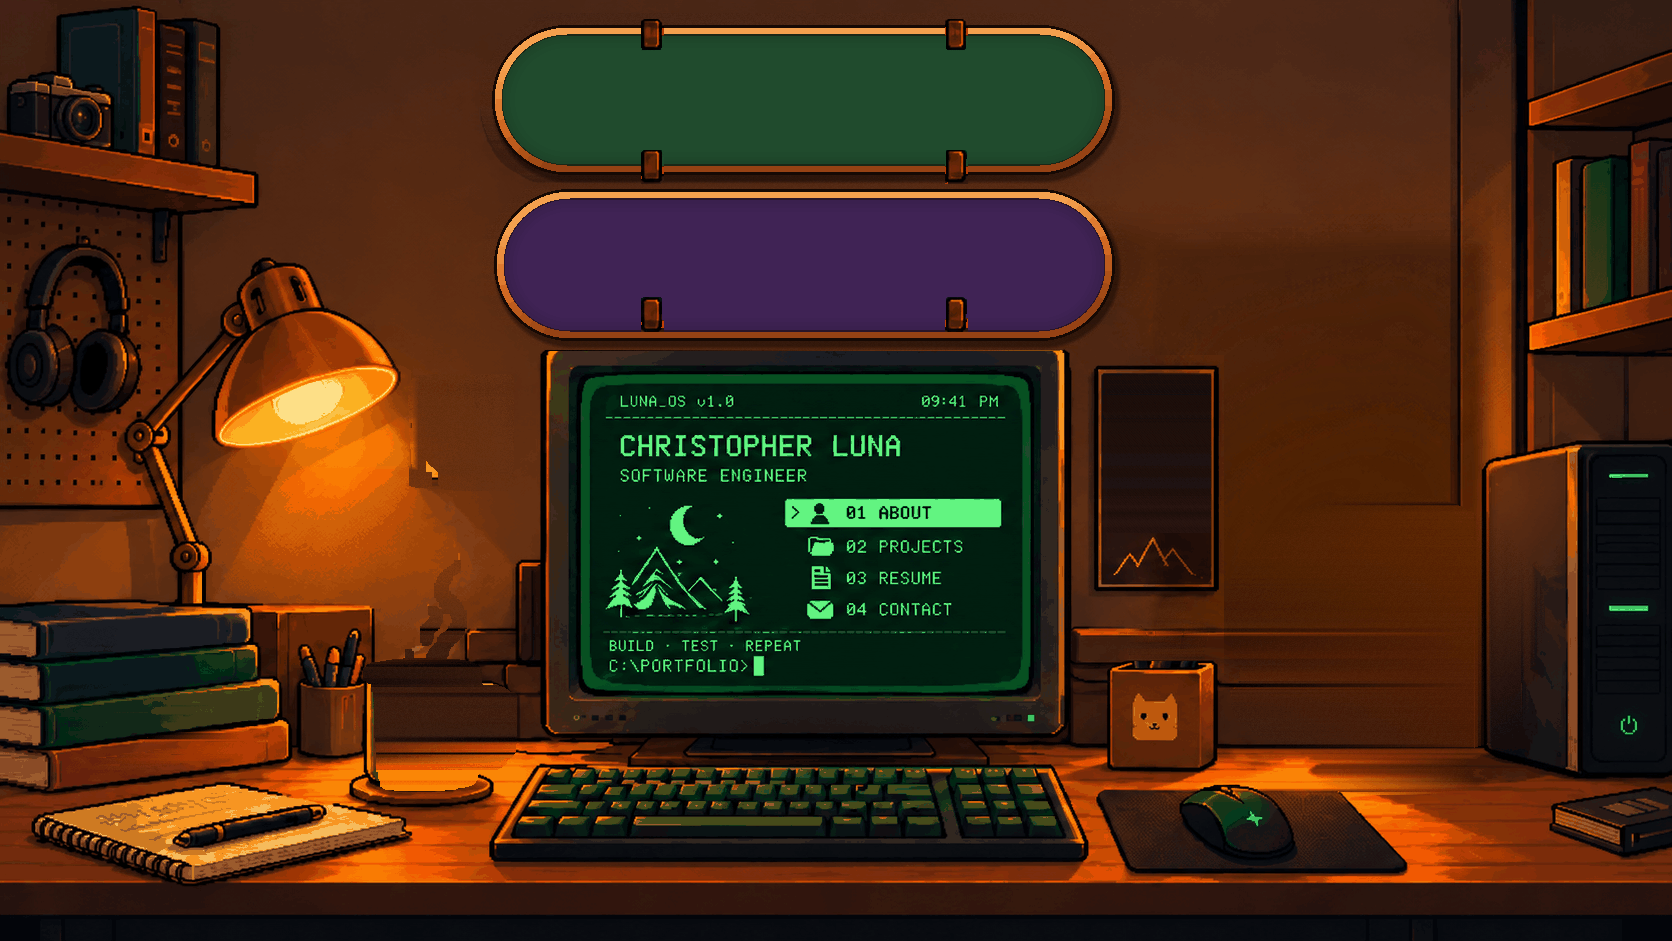
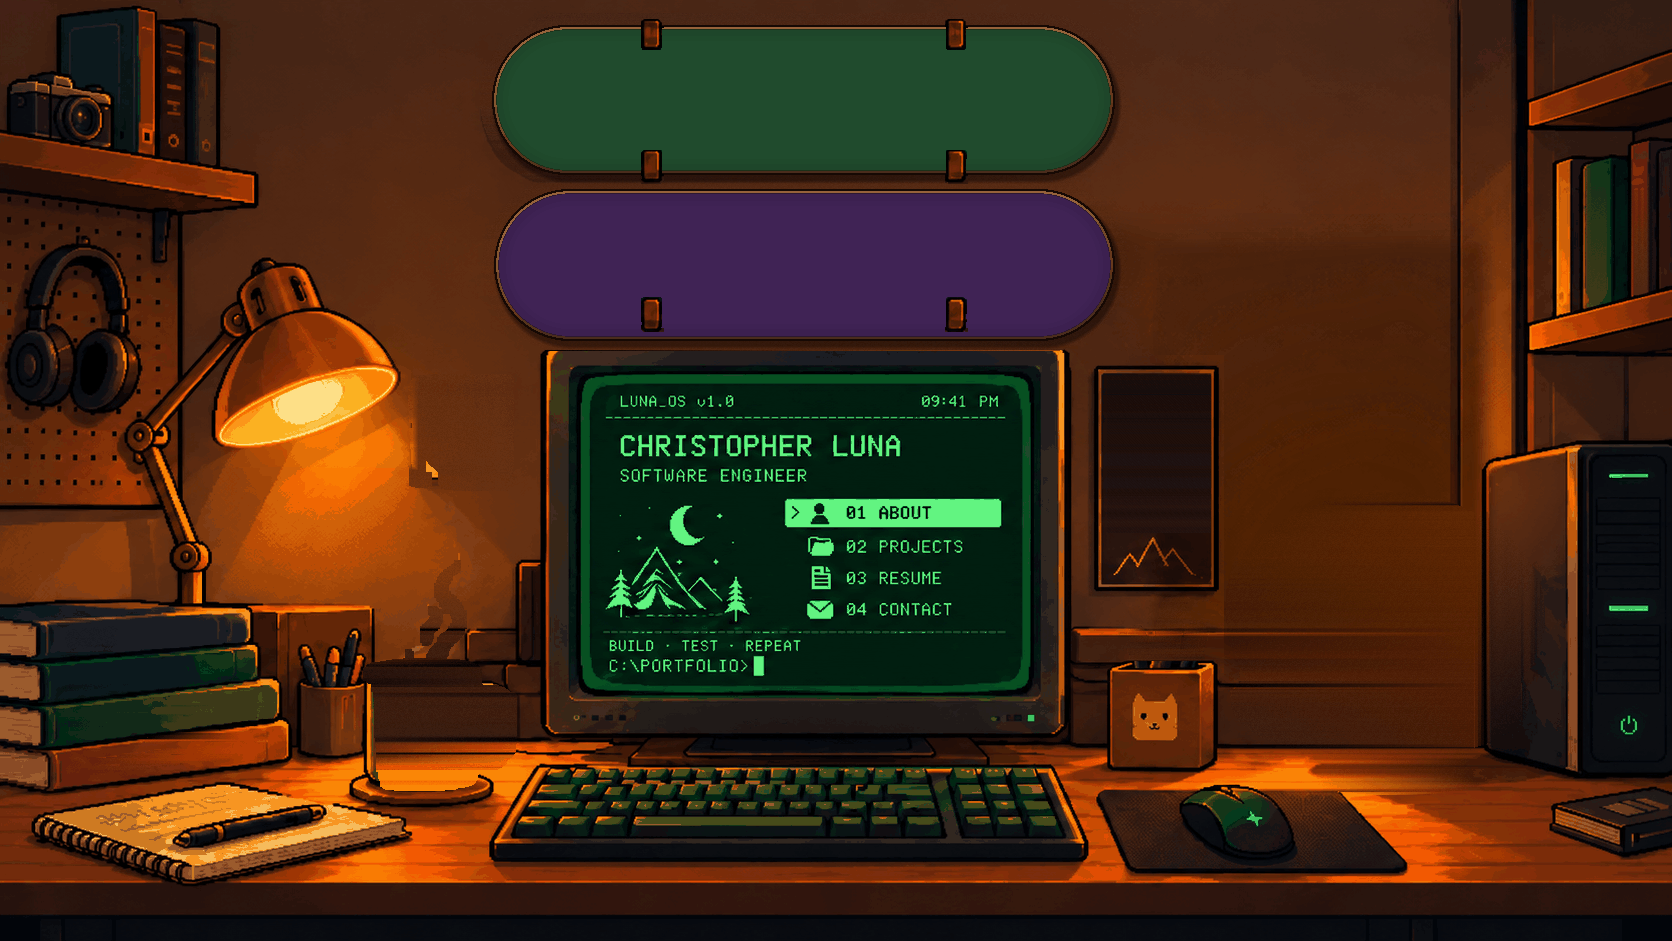
Thin wood deck edges, a note pile that stays, a gentler mug bump
- Deck edges are a thin, muted wood line under a dark outline instead of the
  wide orange band; the brackets come back without bits of the old rim.
- Sticky notes can be peeled back to back with no wait; each falls on its
  own, lands behind the mug at its own angle and stays until reload.
- The mug only bumps back a few pixels, upright; its drops and the puddle
  where it stood stay until reload.

diff --git a/components/cinema/CinemaScene.tsx b/components/cinema/CinemaScene.tsx
@@ -11,7 +11,7 @@ import {
 } from "react";
 import manifestJson from "../../public/cinema/manifest.json";
 import LofiOS, { type LofiPopup } from "./LofiOS";
-import { Spring, clamp01, easeOutCubic } from "./physics";
+import { Spring, easeOutCubic } from "./physics";
 import { Spill } from "./spill";
 import "./cinema.css";
 
@@ -70,9 +70,9 @@ const HINT_DELAY_MS = 2200;
 
 /** The mug's tap: it slides back across the desk, upright, slopping a little coffee that stays
  *  on the desk where it stood. It stays pushed back until the page is reloaded. */
-const PUSH_S = 0.7;
-const PUSH_BACK = 30; // art px up the desk (away from you)
-const PUSH_SHRINK = 0.09; // further away, a touch smaller
+const PUSH_S = 0.35;
+const PUSH_BACK = 5; // art px up the desk (away from you): a small bump back
+const PUSH_SHRINK = 0.015; // further away, a hair smaller
 const LEAK_DROPS = 10;
 const LEAK_POOL = [52, 9]; // art px: the puddle's half-width and half-depth where it stood
 
@@ -82,9 +82,8 @@ const NOTE_GRAVITY = 900; // art px / s²
 const NOTE_DRAG = 5.2; // 1/s, so it falls at about 170 art px/s
 const NOTE_SWAY = 34; // art px
 const NOTE_SWAY_W = 5.2; // rad/s
-const NOTE_LAND_Y = 412; // art px below the wall spot: the desk behind the mug
-const NOTE_REST_S = 1.4;
-const NOTE_FADE_S = 0.6;
+const NOTE_LAND_Y = 362; // art px below the wall spot: lying on the desk behind the mug
+const NOTE_SCATTER = [14, 10, 22]; // a landed note's spread: ± art px across, ± art px deep, ± degrees
 
 /** What each sticky note says, in the order they come off the wall: a real to-do list. */
 const NOTE_TEXTS = [
@@ -170,6 +169,22 @@ interface Cam {
 }
 const CAM_REST: Cam = { dy: 0, zoom: 1 };
 
+interface NoteFall {
+  id: number;
+  phase: "peel" | "fall" | "land" | "rest";
+  t: number;
+  x: number;
+  y: number;
+  vy: number;
+  rot: number;
+  tilt: number;
+  side: number;
+  /** Where it ends up: a little off the others, so they pile up scattered. */
+  landY: number;
+  landRot: number;
+  landDx: number;
+}
+
 /** Everything that moves when a prop is tapped. Lives outside React state: the loop writes styles directly. */
 interface World {
   mug: {
@@ -180,17 +195,8 @@ interface World {
     /** A little shiver when it's knocked again where it stands. */
     nudge: Spring;
   };
-  note: {
-    phase: "idle" | "peel" | "fall" | "land";
-    t: number;
-    x: number;
-    y: number;
-    vy: number;
-    rot: number;
-    tilt: number;
-    side: number;
-    opacity: number;
-  };
+  /** Every note peeled off the wall, in the order they came off: falling, landing or lying on the desk. */
+  notes: NoteFall[];
   pens: Spring[];
   /** One per leaf, back to front: each flutters on its own stem. */
   leaves: Spring[];
@@ -201,7 +207,7 @@ interface World {
 
 const createWorld = (): World => ({
   mug: { phase: "home", t: 0, k: 0, nudge: new Spring(420, 9) },
-  note: { phase: "idle", t: 0, x: 0, y: 0, vy: 0, rot: 0, tilt: 0, side: 1, opacity: 1 },
+  notes: [],
   pens: [new Spring(170, 4.2), new Spring(150, 3.6), new Spring(190, 4.6)],
   // a spread of stiffnesses, so the leaves never flutter in step
   leaves: art.leaves.files.map((_, i) => new Spring(48 + ((i * 37) % 41), 2.1 + (i % 3) * 0.35)),
@@ -335,11 +341,11 @@ function NoteFace({ index }: { index: number }) {
 
 /**
  * v2 — the lo-fi pixel desk. You arrive standing back, the whole painted room
- * filling the window. Clicking the monitor sits you down: two steps up to the desk,
- * then down into the chair, and the LUNA_OS on the glass wakes up to your keys. Standing, the
- * desk is alive: push the mug and it slides back, upright, leaving a little spilt coffee behind, peel the
- * sticky note and it drifts down to the desk with the next one waiting behind it,
- * tap the pencil cup and the pens rattle, click the lamp to switch it off and on,
+ * filling the window. Clicking the monitor sits you down in one smooth move toward the screen,
+ * and the LUNA_OS on the glass wakes up to your keys. Standing, the desk is alive: push the mug
+ * and it bumps back a little, upright, leaving spilt coffee behind; peel the sticky notes, as fast
+ * as you like, and they drift down and pile up behind the mug; tap the pencil cup and the pens
+ * rattle; click the lamp to switch it off and on;
  * brush the plant and its leaves rustle while an ant walks out. Seated, ESC, [ STAND UP ] or a click
  * anywhere outside the screen stands you back up.
  */
@@ -353,7 +359,8 @@ export default function CinemaScene() {
   const [pendingPopup, setPendingPopup] = useState<LofiPopup>(null);
   const [antKey, setAntKey] = useState(0);
   const [noteIndex, setNoteIndex] = useState(0);
-  const [fallingNote, setFallingNote] = useState<number | null>(null);
+  /** Every note peeled off so far (which note it was), in order: they stay on the desk until reload. */
+  const [fallen, setFallen] = useState<number[]>([]);
   const [lampOn, setLampOn] = useState(true);
   const [lampSwitches, setLampSwitches] = useState(0);
   const [visits, setVisits] = useState(0); // each stand-up hands back a fresh screen at the menu
@@ -362,7 +369,7 @@ export default function CinemaScene() {
   const fallbackRef = useRef(0);
   const worldRef = useRef<World | null>(null);
   const elsRef = useRef<Partial<Record<PropKey, HTMLElement | null>>>({});
-  const fallerRef = useRef<HTMLDivElement | null>(null);
+  const noteRefs = useRef(new Map<number, HTMLDivElement>());
   const penRefs = useRef<(HTMLDivElement | null)[]>([]);
   const leafRefs = useRef<(HTMLDivElement | null)[]>([]);
   const canvasRef = useRef<HTMLCanvasElement>(null);
@@ -499,9 +506,9 @@ export default function CinemaScene() {
         if (ctx) w.spill.draw(ctx);
       }
 
-      // the falling sticky note
-      const n = w.note;
-      if (n.phase !== "idle") {
+      // the peeled sticky notes: each falls on its own and stays where it lands
+      for (const n of w.notes) {
+        if (n.phase === "rest") continue;
         n.t += dt;
         if (n.phase === "peel") {
           // the bottom lets go first and curls off the wall, one corner ahead of the other
@@ -523,26 +530,22 @@ export default function CinemaScene() {
           n.x = NOTE_SWAY * grow * Math.sin(ph) * n.side;
           n.rot = 5 * n.side * (1 - grow) + 16 * grow * Math.cos(ph) * n.side;
           n.tilt = 30 + 24 * grow * Math.sin(2 * ph + 0.6);
-          if (n.y >= NOTE_LAND_Y) {
-            n.y = NOTE_LAND_Y;
+          if (n.y >= n.landY) {
+            n.y = n.landY;
             n.phase = "land";
             n.t = 0;
           }
         } else {
-          // flat on the desk: it settles, rests a moment, then goes
-          const k = easeOutCubic(n.t / 0.28);
+          // flat on the desk: it slides the last bit and settles at its own angle, and stays
+          const k = easeOutCubic(n.t / 0.32);
           n.tilt = lerp(n.tilt, 78, k);
-          n.rot *= 1 - 0.12 * Math.min(1, dt * 60);
-          n.opacity = 1 - clamp01((n.t - NOTE_REST_S) / NOTE_FADE_S);
-          if (n.t >= NOTE_REST_S + NOTE_FADE_S) {
-            n.phase = "idle";
-            setFallingNote(null);
-          }
+          n.rot = lerp(n.rot, n.landRot, k);
+          n.x = lerp(n.x, n.landDx, k * 0.25);
+          if (n.t >= 0.32) n.phase = "rest";
         }
-        const f = fallerRef.current;
+        const f = noteRefs.current.get(n.id);
         if (f) {
           f.style.transform = `translate(${(n.x * s).toFixed(1)}px, ${(n.y * s).toFixed(1)}px) perspective(${(600 * s).toFixed(0)}px) rotateZ(${n.rot.toFixed(2)}deg) rotateX(${n.tilt.toFixed(2)}deg)`;
-          f.style.opacity = n.opacity.toFixed(3);
         }
       }
 
@@ -562,7 +565,7 @@ export default function CinemaScene() {
 
       const idle =
         m.phase !== "pushing" &&
-        n.phase === "idle" &&
+        w.notes.every((n) => n.phase === "rest") &&
         !(w.spill && w.spill.moving) &&
         springs.every((sp) => sp.idle);
       if (idle) {
@@ -639,10 +642,10 @@ export default function CinemaScene() {
     (e: React.MouseEvent) => {
       if (pose !== "standing") return;
       e.stopPropagation();
-      if (fallingNote !== null) return;
-      const next = noteIndex + 1;
       const w = worldOf(worldRef);
-      Object.assign(w.note, {
+      const r = () => Math.random() * 2 - 1;
+      w.notes.push({
+        id: w.notes.length,
         phase: "peel",
         t: 0,
         x: 0,
@@ -651,13 +654,15 @@ export default function CinemaScene() {
         rot: 0,
         tilt: 0,
         side: Math.random() < 0.5 ? -1 : 1,
-        opacity: 1,
+        landY: NOTE_LAND_Y + r() * NOTE_SCATTER[1],
+        landRot: r() * NOTE_SCATTER[2],
+        landDx: r() * NOTE_SCATTER[0],
       });
-      setFallingNote(noteIndex);
-      setNoteIndex(next);
+      setFallen((f) => [...f, noteIndex]);
+      setNoteIndex(noteIndex + 1);
       ensureRunning();
     },
-    [pose, fallingNote, noteIndex, ensureRunning],
+    [pose, noteIndex, ensureRunning],
   );
 
   const rattlePens = useCallback(
@@ -799,16 +804,21 @@ export default function CinemaScene() {
               >
                 <NoteFace index={noteIndex} />
               </button>
-              {fallingNote !== null && (
+              {/* the notes peeled so far: falling, or lying where they landed behind the mug */}
+              {fallen.map((index, id) => (
                 <div
-                  ref={fallerRef}
+                  key={id}
+                  ref={(node) => {
+                    if (node) noteRefs.current.set(id, node);
+                    else noteRefs.current.delete(id);
+                  }}
                   className="cinema__sprite cinema__sprite--note cinema__note-falling"
                   style={{ ...pctBox(note.boxPct), transformOrigin: "50% 3%" }}
                   aria-hidden="true"
                 >
-                  <NoteFace index={fallingNote} />
+                  <NoteFace index={index} />
                 </div>
-              )}
+              ))}
             </>
           )}
 

diff --git a/scripts/cinema-blend.js b/scripts/cinema-blend.js
@@ -174,7 +174,7 @@ const savePng = (buf, w, h, ch, file) => sharp(buf, { raw: { width: w, height: h
   const block = (boxes) => { const m = new Uint8Array(W * H); for (const [x0, y0, x1, y1] of boxes) for (let y = y0; y <= y1; y++) for (let x = x0; x <= x1; x++) m[y * W + x] = 1; return m; };
   for (const [x0, y0, x1, y1] of [[596, 82, 998, 130], [634, 217, 994, 253]]) fill(img, block([[x0, y0, x1, y1]]), [x0, y0 - 4, x1, y1 + 4], 'col', 19);
   // the decks' painted rims wander (ragged edges, a gap at the nose, drips by the brackets), so each
-  // deck is redrawn from its outline's box as a clean stadium: dark outline, a maple edge lit along
+  // deck is redrawn from its outline's box as a clean stadium: dark outline, a thin wood line lit along
   // the top and shaded under, the flat face, a soft shadow on the wall; the brackets go back on top
   {
     const DECKS = [{ box: [492, 25, 1114, 175] }, { box: [494, 189, 1114, 341] }];
@@ -208,21 +208,21 @@ const savePng = (buf, w, h, ch, file) => sharp(buf, { raw: { width: w, height: h
       for (let c = 0; c < 3; c++) img[i + c] = Math.round(img[i + c] * k);
     }
     // 3. the decks
-    const RIM_LIT = [244, 160, 78], RIM = [214, 108, 36], RIM_SHADE = [150, 66, 20], LINE = [22, 10, 5];
+    // a thin, muted wood edge: a brown line two pixels wide, not a bright band
+    const RIM_LIT = [150, 98, 58], RIM = [112, 70, 40], RIM_SHADE = [74, 44, 26], LINE = [22, 10, 5];
     const mix = (a, b, t) => a.map((v, c) => v + (b[c] - v) * t);
     for (const d of DECKS) {
       const [x0, y0, x1, y1] = d.box;
       for (let y = y0 - 1; y <= y1 + 1; y++) for (let x = x0 - 1; x <= x1 + 1; x++) {
         const t = -d.dist(x, y); if (t < 0) continue;
         let col;
-        if (t < 2.6) col = LINE;
-        else if (t < 9.5) {
+        if (t < 2.2) col = LINE;
+        else if (t < 4.3) {
           // the edge faces outward: lit where it faces up-left, shaded where it faces down-right
           const [nx, ny] = d.normal(x, y), lit = -(nx * 0.35 + ny * 0.94);
           col = lit > 0 ? mix(RIM, RIM_LIT, Math.min(1, lit * 1.3)) : mix(RIM, RIM_SHADE, Math.min(1, -lit * 1.2));
-          if (t < 3.6) col = mix(col, RIM_LIT, lit > 0.3 ? 0.35 : 0);
-        } else if (t < 10.6) col = mix(d.face, LINE, 0.55);
-        else col = mix(d.face, [0, 0, 0], 0.1 * Math.max(0, 1 - (t - 10.6) / 14));
+        } else if (t < 5.1) col = mix(d.face, LINE, 0.45);
+        else col = mix(d.face, [0, 0, 0], 0.08 * Math.max(0, 1 - (t - 5.1) / 14));
         const i = (y * W + x) * 3;
         for (let c = 0; c < 3; c++) img[i + c] = Math.round(col[c]);
       }
@@ -232,6 +232,8 @@ const savePng = (buf, w, h, ch, file) => sharp(buf, { raw: { width: w, height: h
       const inner = enclosed(src, [a - 2, b - 2, c + 2, e + 2], 30), keep = dilate(inner, 2);
       for (let y = b - 2; y <= e + 2; y++) for (let x = a - 2; x <= c + 2; x++) {
         const i = y * W + x; if (!keep[i] || !inBracket(x, y)) continue;
+        // round the edge, only the bracket's own dark outline: not the old rim beside it
+        if (!inner[i] && lum(src, i) > 40) continue;
         for (let k = 0; k < 3; k++) img[i * 3 + k] = src[i * 3 + k];
       }
     }

diff --git a/components/cinema/spill.ts b/components/cinema/spill.ts
@@ -224,7 +224,7 @@ export class Spill {
     // a lighter sheen across its far side
     if (this.pool) {
       const { cx, rx, ry, k, wobble } = this.pool;
-      const ease = 1 - Math.pow(1 - k, 3), RX = rx * ease, RY = ry * ease, cy = landY + 1;
+      const ease = 1 - Math.pow(1 - k, 3), RX = rx * ease, RY = ry * ease, cy = landY + 3;
       if (RX >= 1) {
         for (let y = Math.floor(cy - RY - 2); y <= Math.ceil(cy + RY + 2); y++) {
           for (let x = Math.floor(cx - RX - 3); x <= Math.ceil(cx + RX + 3); x++) {
